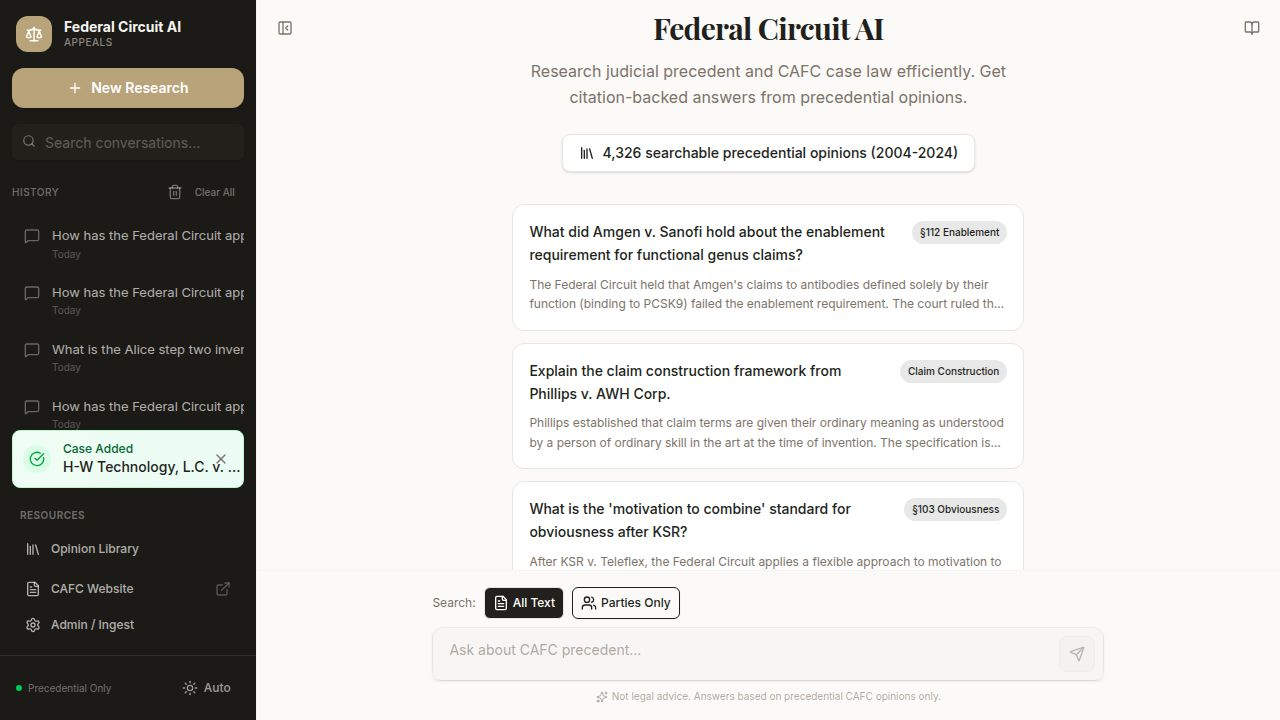
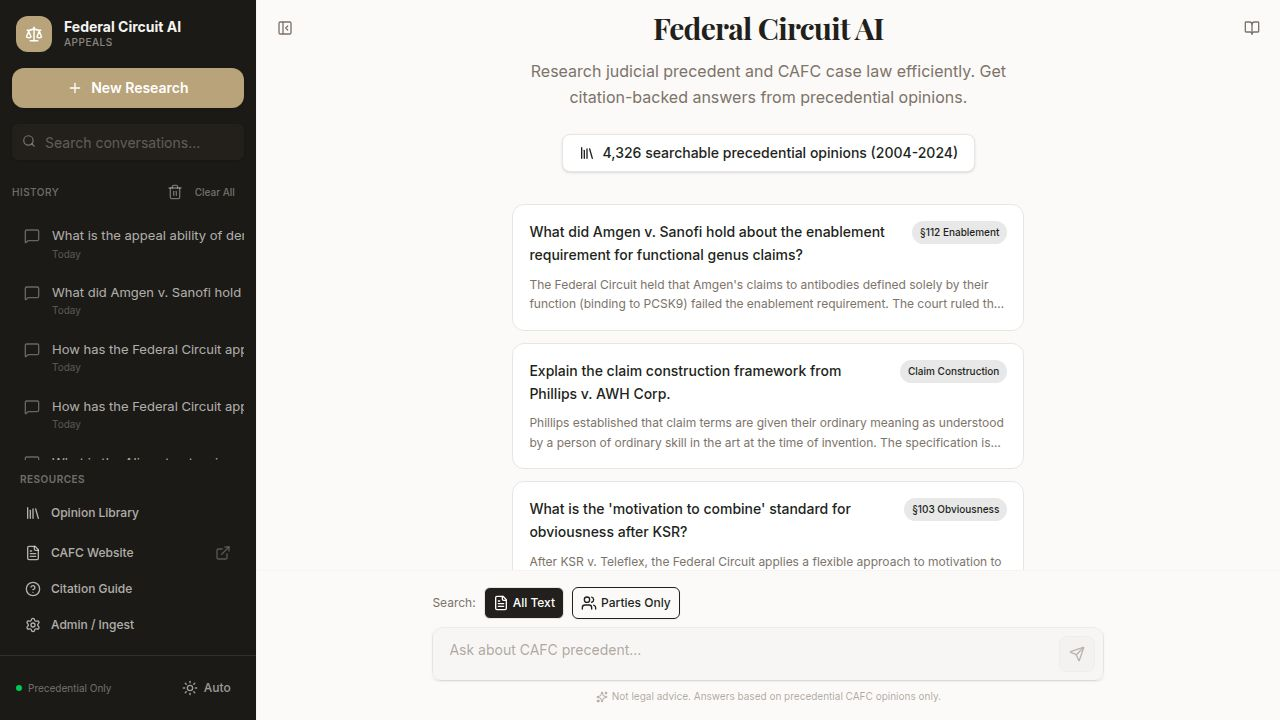
Remove the recent case notification from the sidebar
Remove the NewCaseDigest component from Sidebar.tsx to eliminate the H-W Technology notification popup.

Replit-Commit-Author: Agent
Replit-Commit-Session-Id: 0608863a-c6de-4dca-b7b4-8b1d73e154b5
Replit-Commit-Checkpoint-Type: full_checkpoint
Replit-Commit-Event-Id: 8e490451-963f-42a4-b047-09f60ac93d60
Replit-Commit-Screenshot-Url: https://storage.googleapis.com/screenshot-production-us-central1/650168ab-ab63-4784-bdec-74acb30694c8/0608863a-c6de-4dca-b7b4-8b1d73e154b5/41T3A6B
Replit-Helium-Checkpoint-Created: true

diff --git a/client/src/components/Sidebar.tsx b/client/src/components/Sidebar.tsx
@@ -25,7 +25,6 @@ import { useState } from "react";
 import { useApp } from "@/context/AppContext";
 import { useConversations, useCreateConversation, useDeleteConversation, useClearAllConversations } from "@/hooks/useConversations";
 import { useStatus } from "@/hooks/useOpinions";
-import { NewCaseDigest } from "@/components/NewCaseDigest";
 
 export function Sidebar() {
   const [searchTerm, setSearchTerm] = useState("");
@@ -201,12 +200,6 @@ export function Sidebar() {
         </div>
       </ScrollArea>
 
-      <NewCaseDigest 
-        className="mx-3 mb-2" 
-        onCaseClick={(documentId) => {
-          setShowOpinionLibrary(true);
-        }}
-      />
 
       <div className="p-3 space-y-2">
         <h3 className="text-[10px] uppercase tracking-wider text-sidebar-foreground/40 font-semibold px-2">Resources</h3>
